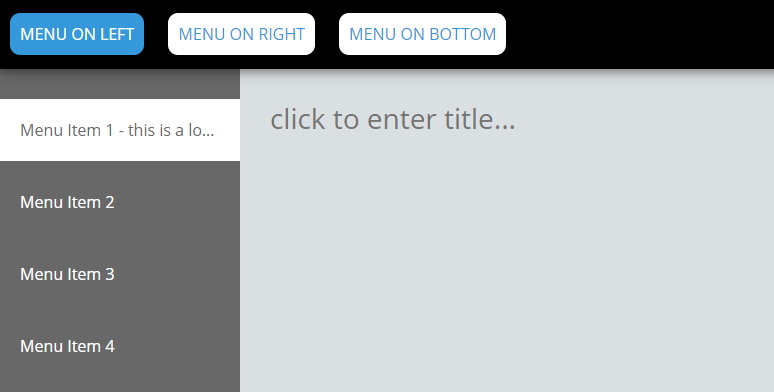
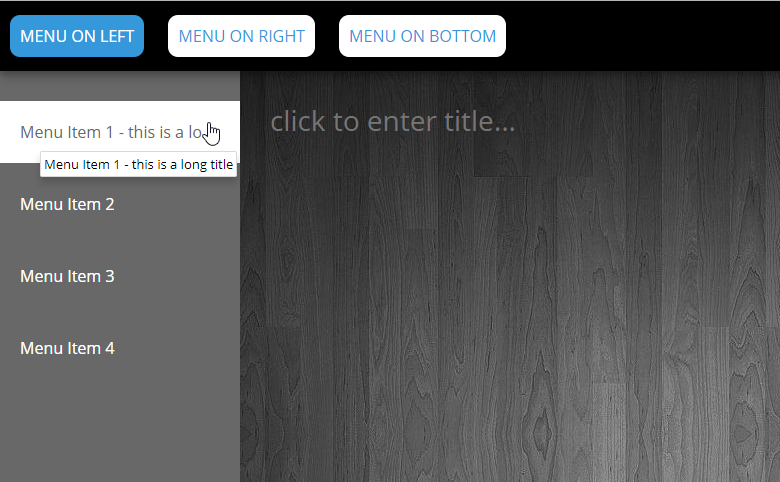
updated

diff --git a/css/main.css b/css/main.css
@@ -5,8 +5,9 @@
 }
 
 body {
-  background-color: #DADFE1;
+  /*background-color: #DADFE1;*/
   z-index: 1;
+  background-image: url("../images/background.jpg");
 }
 
 /* NAVIGATION */
@@ -134,7 +135,8 @@ body {
   font-size: 28px;
   outline: none;
   border: none;
-  background-color: #DADFE1;
+  background-color: transparent;
+  color: #686868;
 }
 
 .title:focus {
